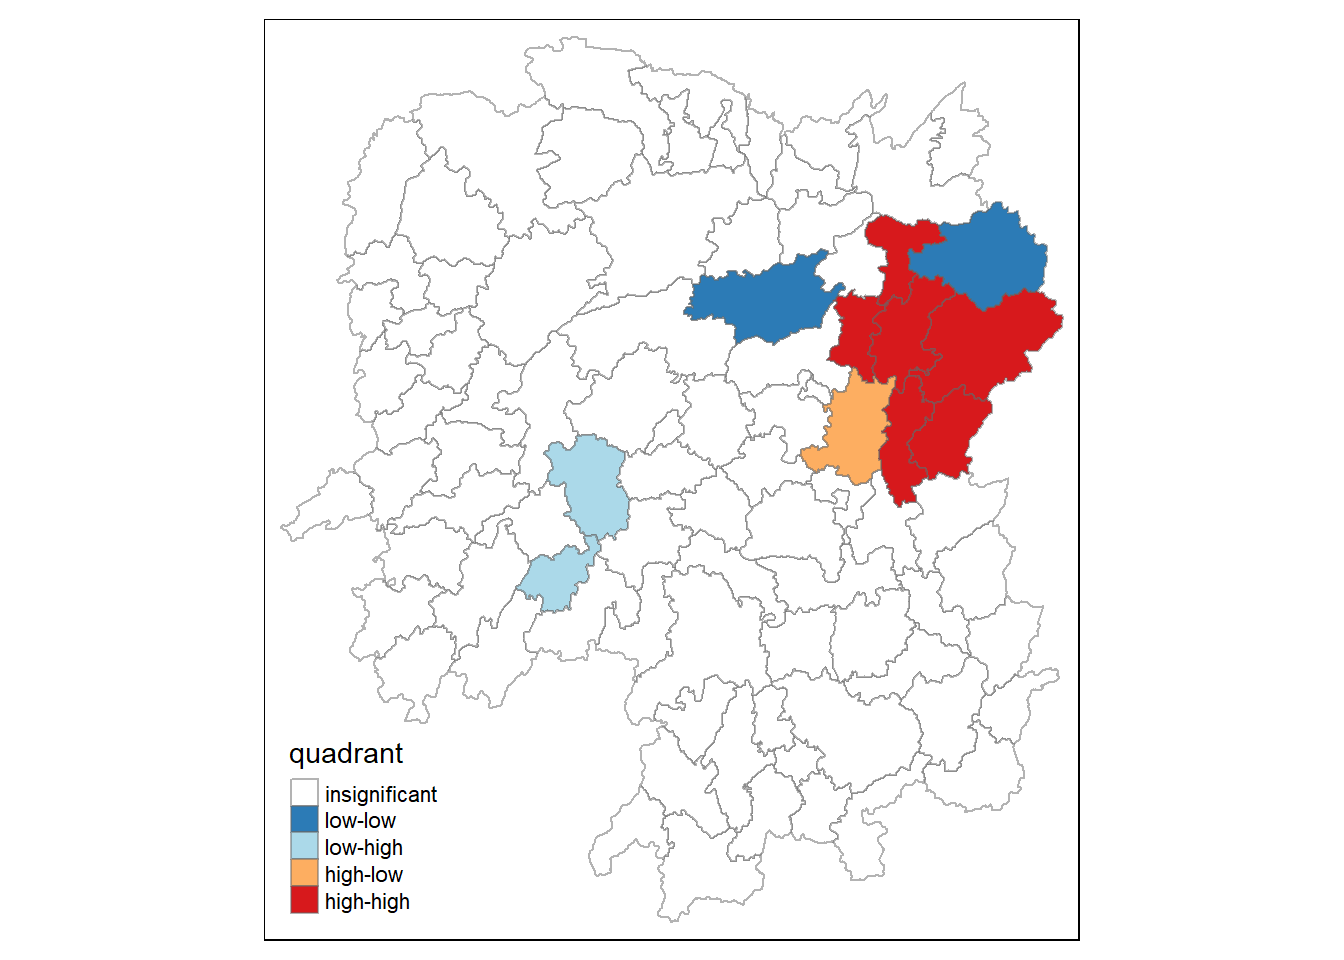
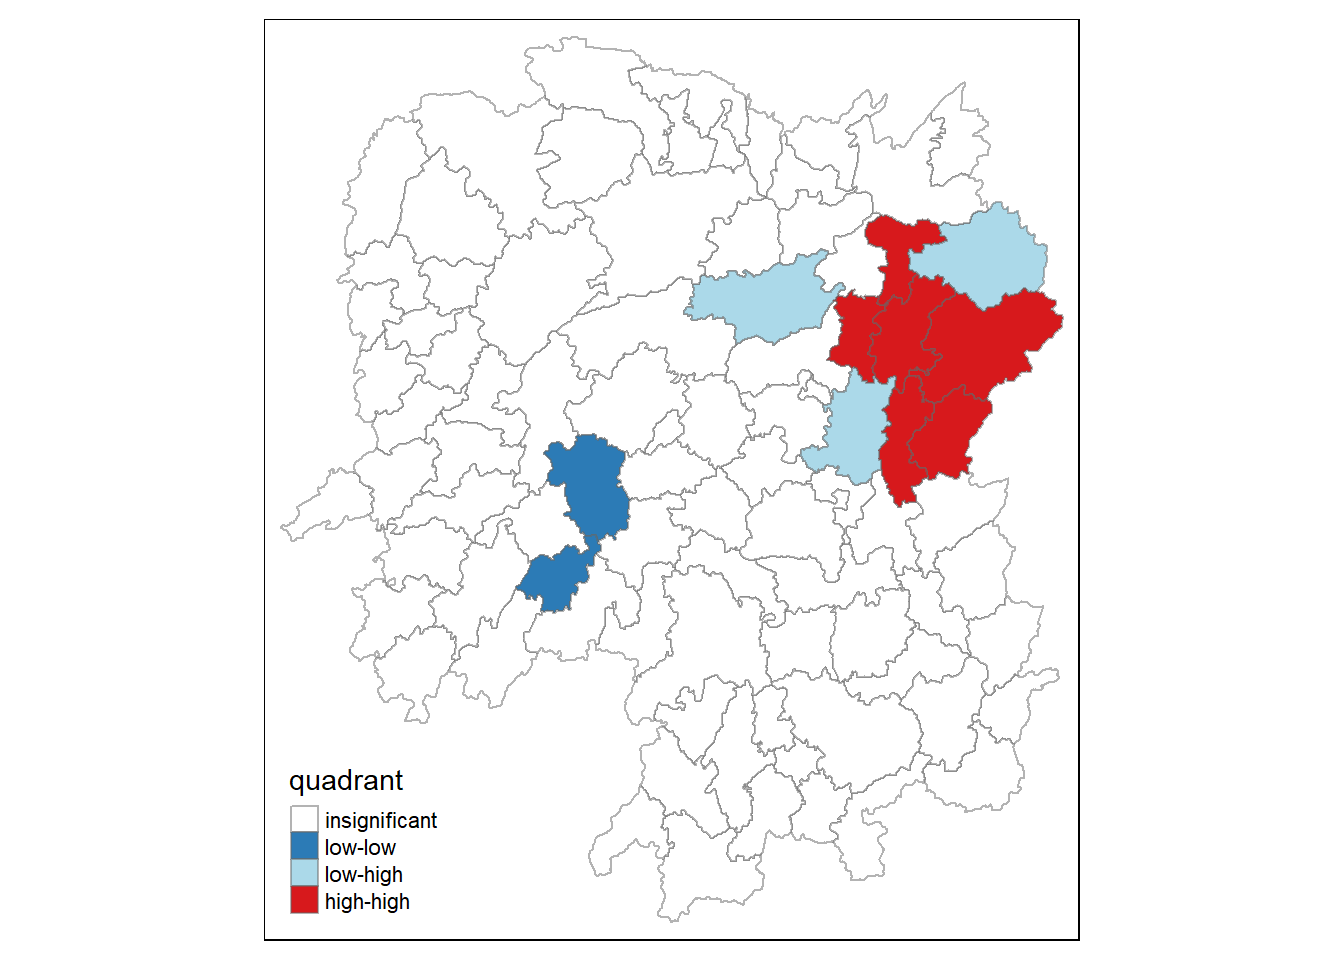
Amend Hands-on Exercise 2

diff --git a/_site/hands-on_exercises/hands-on_ex2/hands-on_ex2.html b/_site/hands-on_exercises/hands-on_ex2/hands-on_ex2.html
@@ -238,7 +238,7 @@ code span.wa { color: #60a0b0; font-weight: bold; font-style: italic; } /* Warni
   </ul></li>
   <li><a href="#hot-spot-and-cold-spot-area-analysis" id="toc-hot-spot-and-cold-spot-area-analysis" class="nav-link" data-scroll-target="#hot-spot-and-cold-spot-area-analysis">Hot Spot and Cold Spot Area Analysis</a>
   <ul class="collapse">
-  <li><a href="#getis-and-ords-g-statistics" id="toc-getis-and-ords-g-statistics" class="nav-link" data-scroll-target="#getis-and-ords-g-statistics">Getis and Ord's G-Statistics</a></li>
+  <li><a href="#getis-and-ords-g-statistics" id="toc-getis-and-ords-g-statistics" class="nav-link" data-scroll-target="#getis-and-ords-g-statistics">Getis and Ord’s G-Statistics</a></li>
   <li><a href="#deriving-distance-based-weight-matrix" id="toc-deriving-distance-based-weight-matrix" class="nav-link" data-scroll-target="#deriving-distance-based-weight-matrix">Deriving distance-based weight matrix</a></li>
   </ul></li>
   <li><a href="#computing-gi-statistics" id="toc-computing-gi-statistics" class="nav-link" data-scroll-target="#computing-gi-statistics">Computing Gi statistics</a>
@@ -860,9 +860,10 @@ Signif. codes:  0 '***' 0.001 '**' 0.01 '*' 0.05 '.' 0.1 ' ' 1</code></pre>
 <div class="cell">
 <div class="sourceCode cell-code" id="cb54"><pre class="sourceCode r code-with-copy"><code class="sourceCode r"><span id="cb54-1"><a href="#cb54-1" aria-hidden="true" tabindex="-1"></a>quadrant <span class="ot">&lt;-</span> <span class="fu">vector</span>(<span class="at">mode=</span><span class="st">"numeric"</span>, <span class="at">length=</span><span class="fu">nrow</span>(local_moran))</span></code><button title="Copy to Clipboard" class="code-copy-button"><i class="bi"></i></button></pre></div>
 </div>
-<p>Next, we center the variable of interest around its mean.</p>
+<p>Next, we derive the spatially lagged variable of interest (i.e., GDPPC) and center it around the mean. If DV &gt; 0, the GDPCC of the county is higher compared to the mean of its neighbours.</p>
 <div class="cell">
-<div class="sourceCode cell-code" id="cb55"><pre class="sourceCode r code-with-copy"><code class="sourceCode r"><span id="cb55-1"><a href="#cb55-1" aria-hidden="true" tabindex="-1"></a>DV <span class="ot">&lt;-</span> hunan<span class="sc">$</span>GDPPC <span class="sc">-</span> <span class="fu">mean</span>(hunan<span class="sc">$</span>GDPPC)</span></code><button title="Copy to Clipboard" class="code-copy-button"><i class="bi"></i></button></pre></div>
+<div class="sourceCode cell-code" id="cb55"><pre class="sourceCode r code-with-copy"><code class="sourceCode r"><span id="cb55-1"><a href="#cb55-1" aria-hidden="true" tabindex="-1"></a>hunan<span class="sc">$</span>lag_GDPPC <span class="ot">&lt;-</span> <span class="fu">lag.listw</span>(rswm_q, hunan<span class="sc">$</span>GDPPC)</span>
+<span id="cb55-2"><a href="#cb55-2" aria-hidden="true" tabindex="-1"></a>DV <span class="ot">&lt;-</span> hunan<span class="sc">$</span>lag_GDPPC <span class="sc">-</span> <span class="fu">mean</span>(hunan<span class="sc">$</span>lag_GDPPC)</span></code><button title="Copy to Clipboard" class="code-copy-button"><i class="bi"></i></button></pre></div>
 </div>
 <p>This is followed by centering the local Moran’s around the mean.</p>
 <div class="cell">
@@ -872,14 +873,14 @@ Signif. codes:  0 '***' 0.001 '**' 0.01 '*' 0.05 '.' 0.1 ' ' 1</code></pre>
 <div class="cell">
 <div class="sourceCode cell-code" id="cb57"><pre class="sourceCode r code-with-copy"><code class="sourceCode r"><span id="cb57-1"><a href="#cb57-1" aria-hidden="true" tabindex="-1"></a>signif <span class="ot">&lt;-</span> <span class="fl">0.05</span></span></code><button title="Copy to Clipboard" class="code-copy-button"><i class="bi"></i></button></pre></div>
 </div>
-<p>The following four command lines define the high-high, low-low, low-high and high-low categories.</p>
+<p>These four command lines define the low-low (1), low-high (2), high-low (3) and high-high (4) categories. DV defines whether the value of the variable of interest (i.e., GDPPC) is high or low, whereas c_moran defines whether it is similar to its neighbours.</p>
 <div class="cell">
-<div class="sourceCode cell-code" id="cb58"><pre class="sourceCode r code-with-copy"><code class="sourceCode r"><span id="cb58-1"><a href="#cb58-1" aria-hidden="true" tabindex="-1"></a>quadrant[DV<span class="sc">&gt;</span><span class="dv">0</span> <span class="sc">&amp;</span> C_moran<span class="sc">&gt;</span><span class="dv">0</span>] <span class="ot">&lt;-</span> <span class="dv">4</span></span>
-<span id="cb58-2"><a href="#cb58-2" aria-hidden="true" tabindex="-1"></a>quadrant[DV<span class="sc">&lt;</span><span class="dv">0</span> <span class="sc">&amp;</span> C_moran<span class="sc">&lt;</span><span class="dv">0</span>] <span class="ot">&lt;-</span> <span class="dv">1</span></span>
-<span id="cb58-3"><a href="#cb58-3" aria-hidden="true" tabindex="-1"></a>quadrant[DV<span class="sc">&lt;</span><span class="dv">0</span> <span class="sc">&amp;</span> C_moran<span class="sc">&gt;</span><span class="dv">0</span>] <span class="ot">&lt;-</span> <span class="dv">2</span></span>
-<span id="cb58-4"><a href="#cb58-4" aria-hidden="true" tabindex="-1"></a>quadrant[DV<span class="sc">&gt;</span><span class="dv">0</span> <span class="sc">&amp;</span> C_moran<span class="sc">&lt;</span><span class="dv">0</span>] <span class="ot">&lt;-</span> <span class="dv">3</span></span></code><button title="Copy to Clipboard" class="code-copy-button"><i class="bi"></i></button></pre></div>
+<div class="sourceCode cell-code" id="cb58"><pre class="sourceCode r code-with-copy"><code class="sourceCode r"><span id="cb58-1"><a href="#cb58-1" aria-hidden="true" tabindex="-1"></a>quadrant[DV <span class="sc">&lt;</span><span class="dv">0</span> <span class="sc">&amp;</span> C_moran<span class="sc">&gt;</span><span class="dv">0</span>] <span class="ot">&lt;-</span> <span class="dv">1</span> </span>
+<span id="cb58-2"><a href="#cb58-2" aria-hidden="true" tabindex="-1"></a>quadrant[DV <span class="sc">&gt;</span><span class="dv">0</span> <span class="sc">&amp;</span> C_moran<span class="sc">&lt;</span><span class="dv">0</span>] <span class="ot">&lt;-</span> <span class="dv">2</span></span>
+<span id="cb58-3"><a href="#cb58-3" aria-hidden="true" tabindex="-1"></a>quadrant[DV <span class="sc">&lt;</span><span class="dv">0</span> <span class="sc">&amp;</span> C_moran<span class="sc">&lt;</span><span class="dv">0</span>] <span class="ot">&lt;-</span> <span class="dv">3</span>  </span>
+<span id="cb58-4"><a href="#cb58-4" aria-hidden="true" tabindex="-1"></a>quadrant[DV <span class="sc">&gt;</span><span class="dv">0</span> <span class="sc">&amp;</span> C_moran<span class="sc">&gt;</span><span class="dv">0</span>] <span class="ot">&lt;-</span> <span class="dv">4</span>  </span></code><button title="Copy to Clipboard" class="code-copy-button"><i class="bi"></i></button></pre></div>
 </div>
-<p>Lastly, place non-significant Moran in the category 0.</p>
+<p>Lastly, we further reassign non-significant Moran into category 0.</p>
 <div class="cell">
 <div class="sourceCode cell-code" id="cb59"><pre class="sourceCode r code-with-copy"><code class="sourceCode r"><span id="cb59-1"><a href="#cb59-1" aria-hidden="true" tabindex="-1"></a>quadrant[local_moran[,<span class="dv">5</span>]<span class="sc">&gt;</span>signif] <span class="ot">&lt;-</span> <span class="dv">0</span></span></code><button title="Copy to Clipboard" class="code-copy-button"><i class="bi"></i></button></pre></div>
 </div>
@@ -905,7 +906,7 @@ Signif. codes:  0 '***' 0.001 '**' 0.01 '*' 0.05 '.' 0.1 ' ' 1</code></pre>
 <p><img src="hands-on_ex2_files/figure-html/unnamed-chunk-39-1.png" class="img-fluid" width="672"></p>
 </div>
 </div>
-<p>For effective interpretation, it is better to plot both the local Moran's I values map and its corresponding p-values map next to each other. The code chunk below will be used to create such visualisation.</p>
+<p>For effective interpretation, it is better to plot both the local Moran’s I values map and its corresponding p-values map next to each other. The code chunk below will be used to create such visualisation.</p>
 <div class="cell">
 <div class="sourceCode cell-code" id="cb61"><pre class="sourceCode r code-with-copy"><code class="sourceCode r"><span id="cb61-1"><a href="#cb61-1" aria-hidden="true" tabindex="-1"></a>gdppc <span class="ot">&lt;-</span> <span class="fu">qtm</span>(hunan, <span class="st">"GDPPC"</span>)</span>
 <span id="cb61-2"><a href="#cb61-2" aria-hidden="true" tabindex="-1"></a><span class="fu">tmap_arrange</span>(gdppc, LISAmap, <span class="at">asp=</span><span class="dv">1</span>, <span class="at">ncol=</span><span class="dv">2</span>)</span></code><button title="Copy to Clipboard" class="code-copy-button"><i class="bi"></i></button></pre></div>
@@ -920,10 +921,10 @@ Signif. codes:  0 '***' 0.001 '**' 0.01 '*' 0.05 '.' 0.1 ' ' 1</code></pre>
 </section>
 <section id="hot-spot-and-cold-spot-area-analysis" class="level2">
 <h2 class="anchored" data-anchor-id="hot-spot-and-cold-spot-area-analysis">Hot Spot and Cold Spot Area Analysis</h2>
-<p>Beside detecting cluster and outliers, localised spatial statistics can be also used to detect hot spot and/or cold spot areas. The term 'hot spot' has been used generically across disciplines to describe a region or value that is higher relative to its surroundings.</p>
+<p>Beside detecting cluster and outliers, localised spatial statistics can be also used to detect hot spot and/or cold spot areas. The term ‘hot spot’ has been used generically across disciplines to describe a region or value that is higher relative to its surroundings.</p>
 <section id="getis-and-ords-g-statistics" class="level3">
-<h3 class="anchored" data-anchor-id="getis-and-ords-g-statistics">Getis and Ord's G-Statistics</h3>
-<p>An alternative spatial statistics to detect spatial anomalies is the Getis and Ord's G-statistics (Getis and Ord, 1972; Ord and Getis, 1995). It looks at neighbours within a defined proximity to identify where either high or low values clutser spatially. Here, statistically significant hot-spots are recognised as areas of high values where other areas within a neighbourhood range also share high values too.</p>
+<h3 class="anchored" data-anchor-id="getis-and-ords-g-statistics">Getis and Ord’s G-Statistics</h3>
+<p>An alternative spatial statistics to detect spatial anomalies is the Getis and Ord’s G-statistics (Getis and Ord, 1972; Ord and Getis, 1995). It looks at neighbours within a defined proximity to identify where either high or low values clutser spatially. Here, statistically significant hot-spots are recognised as areas of high values where other areas within a neighbourhood range also share high values too.</p>
 <p>The analysis consists of three steps:</p>
 <ul>
 <li><p>Deriving spatial weight matrix</p></li>
@@ -1051,7 +1052,7 @@ B 88 7744 704 1300 23014</code></pre>
 <h2 class="anchored" data-anchor-id="computing-gi-statistics">Computing Gi statistics</h2>
 <section id="gi-statistics-using-fixed-distance" class="level3">
 <h3 class="anchored" data-anchor-id="gi-statistics-using-fixed-distance">Gi statistics using fixed distance</h3>
-<p>The code chunk below shows the functions used to map the Gi values derived using fixed distance weight matrix. The output of localG() is a vector of G or Gstar values, with attributes "gstari" set to TRUE or FALSE, "call" set to the function call, and class "localG".</p>
+<p>The code chunk below shows the functions used to map the Gi values derived using fixed distance weight matrix. The output of localG() is a vector of G or Gstar values, with attributes “gstari” set to TRUE or FALSE, “call” set to the function call, and class “localG”.</p>
 <p>The Gi statistics is represented as a Z-score. Greater values represent a greater intensity of clustering and the direction (positive or negative) indicates high or low clusters.</p>
 <div class="cell">
 <div class="sourceCode cell-code" id="cb74"><pre class="sourceCode r code-with-copy"><code class="sourceCode r"><span id="cb74-1"><a href="#cb74-1" aria-hidden="true" tabindex="-1"></a>fips <span class="ot">&lt;-</span> <span class="fu">order</span>(hunan<span class="sc">$</span>County)</span>
